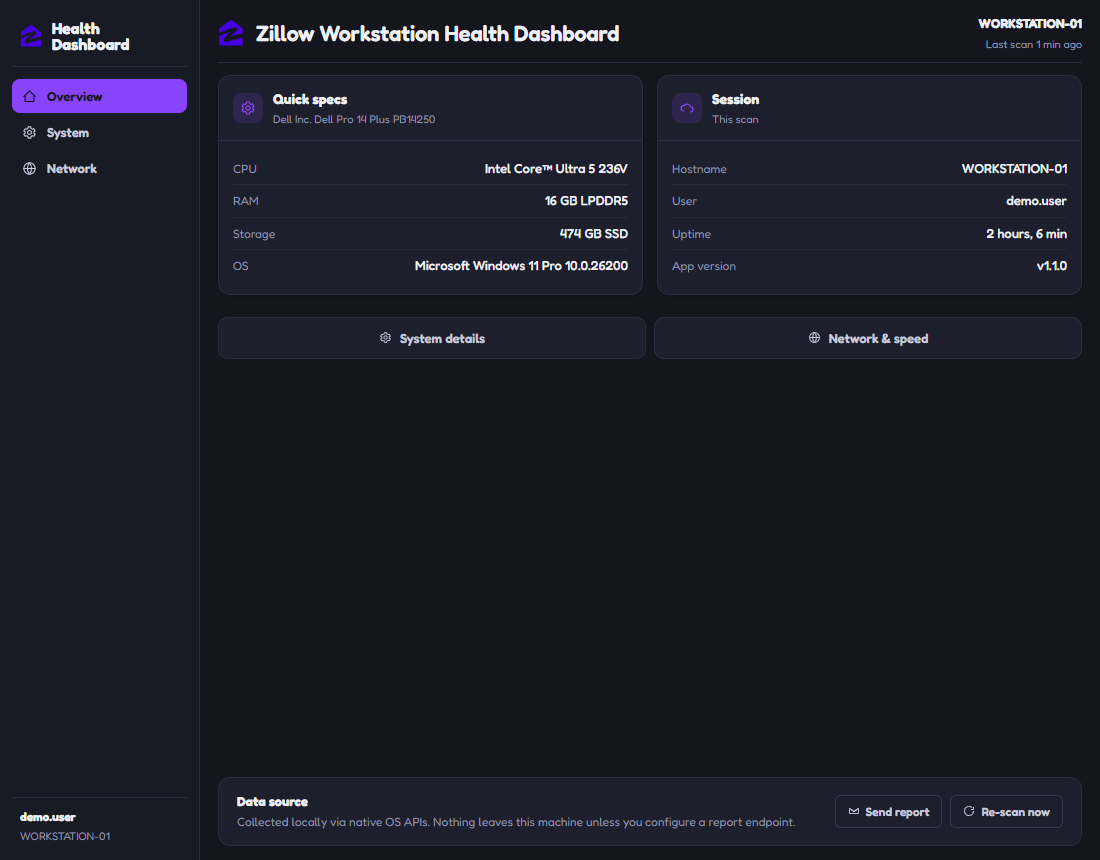
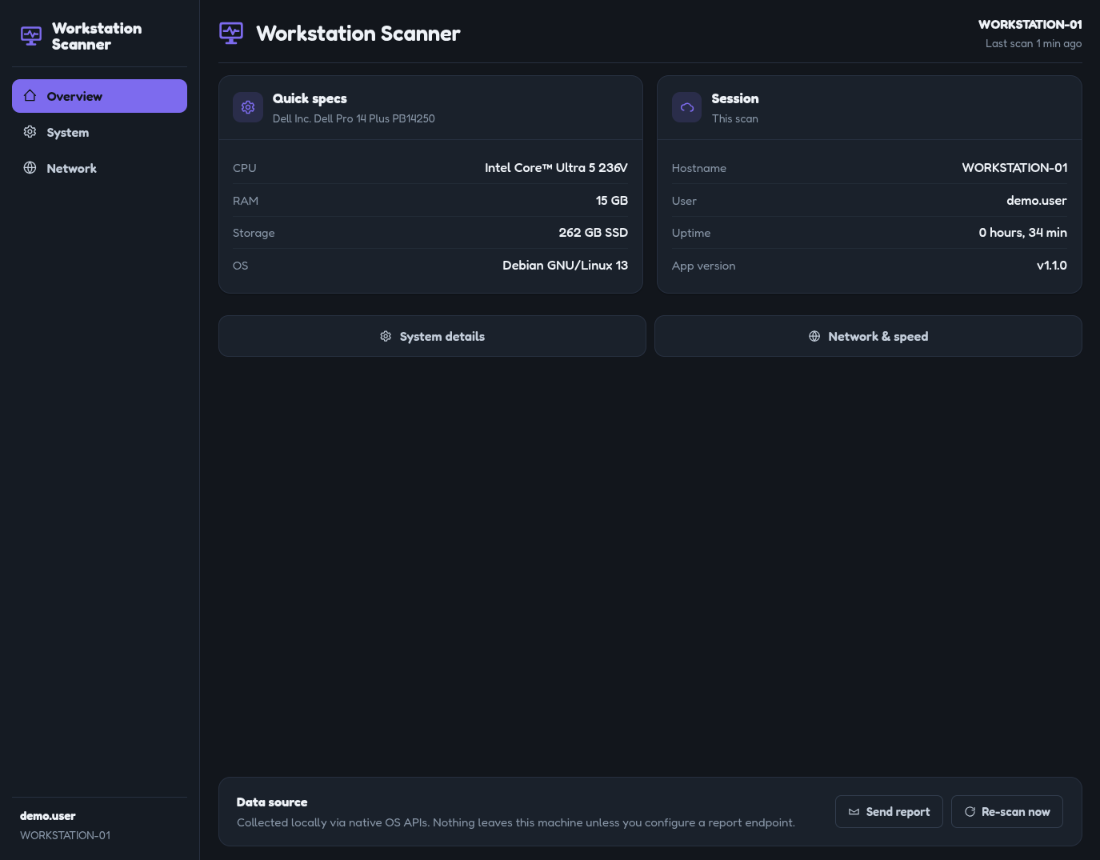
Rename the app to Workstation Scanner and drop the Zillow branding
- The product name was "Zillow Workstation Health Dashboard". It is now
  "Workstation Scanner" in the window and page titles, the header and
  sidebar, the README, the Postman collection and the installer
  (productName). The npm package is now workstation-scanner, and the
  appId is com.evontroy.workstation-scanner, so an installer built from
  here installs as a new app rather than upgrading the old one.
- The logo was Zillow's house-and-Z mark on Zillow blue (#0041D9). It
  is replaced by an original mark, a monitor with a pulse line, in the
  app's own violet: #7d6bee in the app, and white on a #523ae8 tile for
  the icons.
- make-icons.js now takes any logo-mark.svg (any viewBox, fills or
  strokes) rather than exactly two filled paths. The icon set is
  regenerated from the new mark.
- The README screenshots are regenerated. They now come from a Linux
  laptop rather than Windows, with the same redaction.

Internal identifiers that came from the old name (the whd prefixes,
WHD_REPORT_URL) are unchanged, as renaming them would break existing
configuration. The GitHub repository keeps its name.

diff --git a/tools/make-icons.js b/tools/make-icons.js
@@ -1,6 +1,6 @@
 // make-icons.js — generates the app icon set from the brand mark.
 //
-// Renders assets/logo/logo-mark.svg onto a rounded brand-blue tile at every
+// Renders assets/logo/logo-mark.svg onto a rounded brand-violet tile at every
 // size Windows, macOS and Linux want, then packs the Windows sizes into a
 // multi-resolution .ico. Output goes to build/, which electron-builder picks
 // up automatically (it is the default buildResources directory).
@@ -15,35 +15,35 @@ const ROOT = path.join(__dirname, "..");
 const BUILD = path.join(ROOT, "build");
 const ICONS_DIR = path.join(BUILD, "icons");
 
-const BRAND = "#0041D9"; // the mark's own blue, used as the tile
+const BRAND = "#523ae8"; // --whd-cyan, the primary brand violet, as the tile
 const ICO_SIZES = [16, 24, 32, 48, 64, 128, 256];
 const PNG_SIZES = [16, 32, 48, 64, 128, 256, 512, 1024];
 
-// The mark, recolored white to sit on the brand tile. Kept inline so the
-// generator has no runtime dependency on the renderer's asset path at build
-// time beyond this read.
-function markPaths() {
+// The mark, recolored white to sit on the brand tile: every fill and stroke
+// colour becomes white, so the mark can use either. Returns its viewBox and
+// the markup inside the <svg> element.
+function markSvg() {
   const svg = fs.readFileSync(
     path.join(ROOT, "app/renderer/assets/logo/logo-mark.svg"),
     "utf8",
   );
-  const paths = [...svg.matchAll(/<path d='([^']+)'/g)].map((m) => m[1]);
-  if (paths.length !== 2) throw new Error("unexpected logo-mark.svg shape");
-  return paths;
+  const viewBox = (svg.match(/viewBox='([^']+)'/) || [])[1];
+  const inner = (svg.match(/<svg[^>]*>([\s\S]*)<\/svg>/) || [])[1];
+  if (!viewBox || !inner) throw new Error("unexpected logo-mark.svg shape");
+  return { viewBox, inner: inner.replace(/(fill|stroke)='#[0-9a-fA-F]{3,8}'/g, "$1='#ffffff'") };
 }
 
 function iconHtml(size) {
-  const paths = markPaths();
-  // The mark's viewBox is 22x24; inset it so the glyph occupies ~58% of the
-  // tile, which keeps it legible once Windows scales it down to 16px.
+  const { viewBox, inner } = markSvg();
+  // Inset the mark so the glyph occupies ~58% of the tile, which keeps it
+  // legible once Windows scales it down to 16px.
   const radius = Math.round(size * 0.22);
   const glyph = Math.round(size * 0.58);
   const mark =
-    `<svg xmlns="http://www.w3.org/2000/svg" width="${glyph}" height="${glyph}" viewBox="0 0 22 24">` +
-    `<path d="${paths[0]}" fill="#ffffff"/><path d="${paths[1]}" fill="#ffffff"/></svg>`;
+    `<svg xmlns="http://www.w3.org/2000/svg" width="${glyph}" height="${glyph}" viewBox="${viewBox}">` +
+    `${inner}</svg>`;
   // Painted on a canvas rather than screenshotted: capturePage runs the frame
-  // through the display's colour profile, which shifted the brand blue into
-  // violet. Canvas pixels are plain sRGB, so what goes in comes out.
+  // through the display's colour profile, which shifted the brand colour. Canvas pixels are plain sRGB, so what goes in comes out.
   return `<!DOCTYPE html><html><head><meta charset="utf-8"></head><body>
   <script>
   window.renderIcon = async function () {

diff --git a/main.js b/main.js
@@ -1,7 +1,7 @@
 // ═══════════════════════════════════════════════════════
 //  ELECTRON MAIN PROCESS
 //
-//  Hosts the Workstation Health Dashboard UI (renderer at
+//  Hosts the Workstation Scanner UI (renderer at
 //  app/renderer). The main process collects real system
 //  facts via systeminformation and exposes them to the
 //  renderer over the `window.whd` bridge (see app/preload.js).
@@ -53,7 +53,7 @@ function createWindow() {
     height: 860,
     minWidth: 920,
     minHeight: 680,
-    title: "Zillow Workstation Health Dashboard",
+    title: "Workstation Scanner",
     // Packaged builds take the icon from electron-builder; setting it here is
     // what gives `npm start` a branded window and taskbar entry too.
     icon: path.join(APP_DIR, "renderer", "assets", "logo", "icon-256.png"),

diff --git a/app/renderer/helper-app.jsx b/app/renderer/helper-app.jsx
@@ -94,7 +94,7 @@ function Header() {
       <div className="brand">
         <Logo size={26} />
         <div>
-          <div className="brand-name">Zillow Workstation Health Dashboard</div>
+          <div className="brand-name">Workstation Scanner</div>
         </div>
       </div>
       <div className="head-right">
@@ -204,7 +204,7 @@ function Sidebar({ active, onChange }) {
       <div className="sb-brand">
         <Logo size={22} />
         <div>
-          <div className="sb-name">Health Dashboard</div>
+          <div className="sb-name">Workstation Scanner</div>
         </div>
       </div>
       <nav className="sb-nav" aria-label="Dashboard sections">

diff --git a/app/renderer/assets/colors_and_type.css b/app/renderer/assets/colors_and_type.css
@@ -1,5 +1,5 @@
 /* ============================================================
-   Workstation Health Dashboard — Colors & Type Tokens
+   Workstation Scanner — Colors & Type Tokens
    ============================================================ */
 
 /* Local brand font — variable Fredoka (weight 300–700, width 75–125).

diff --git a/app/renderer/index.html b/app/renderer/index.html
@@ -2,7 +2,7 @@
 <html lang="en">
 <head>
 <meta charset="UTF-8" />
-<title>Zillow Workstation Health Dashboard</title>
+<title>Workstation Scanner</title>
 <meta name="viewport" content="width=device-width, initial-scale=1.0" />
 <!--
   Everything the page loads ships inside the app — no CDN, no runtime JSX

diff --git a/app/renderer/helper.css b/app/renderer/helper.css
@@ -1,4 +1,4 @@
-/* helper.css — styles for the Workstation Health Dashboard UI */
+/* helper.css — styles for the Workstation Scanner UI */
 @import url("assets/colors_and_type.css");
 @import url("assets/theme.css");
 

diff --git a/README.md b/README.md
@@ -1,4 +1,4 @@
-# Zillow Workstation Health Dashboard
+# Workstation Scanner
 
 This application reports on a computer's health —
 CPU, RAM, disk, OS, network, antivirus, and audio — and runs a real network
